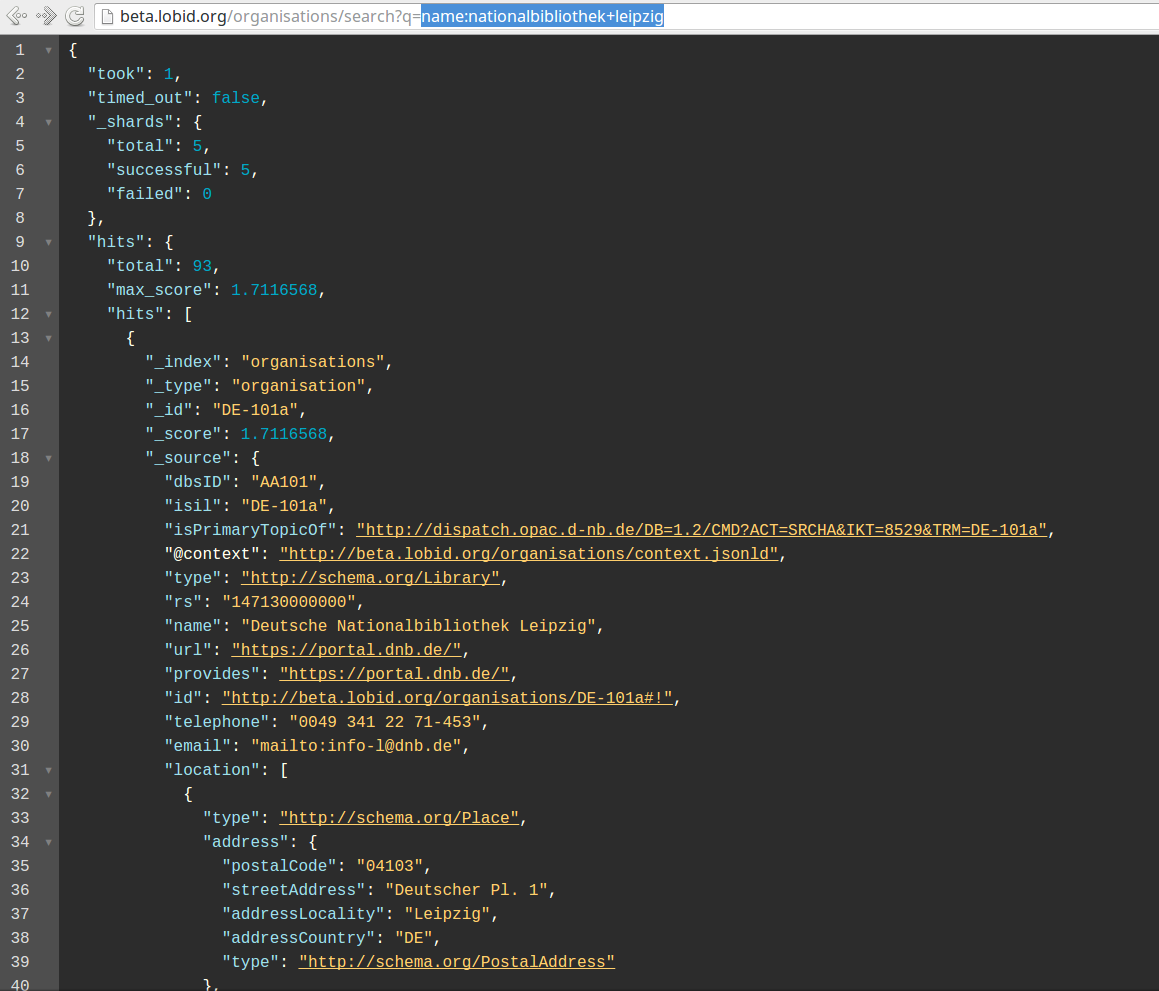
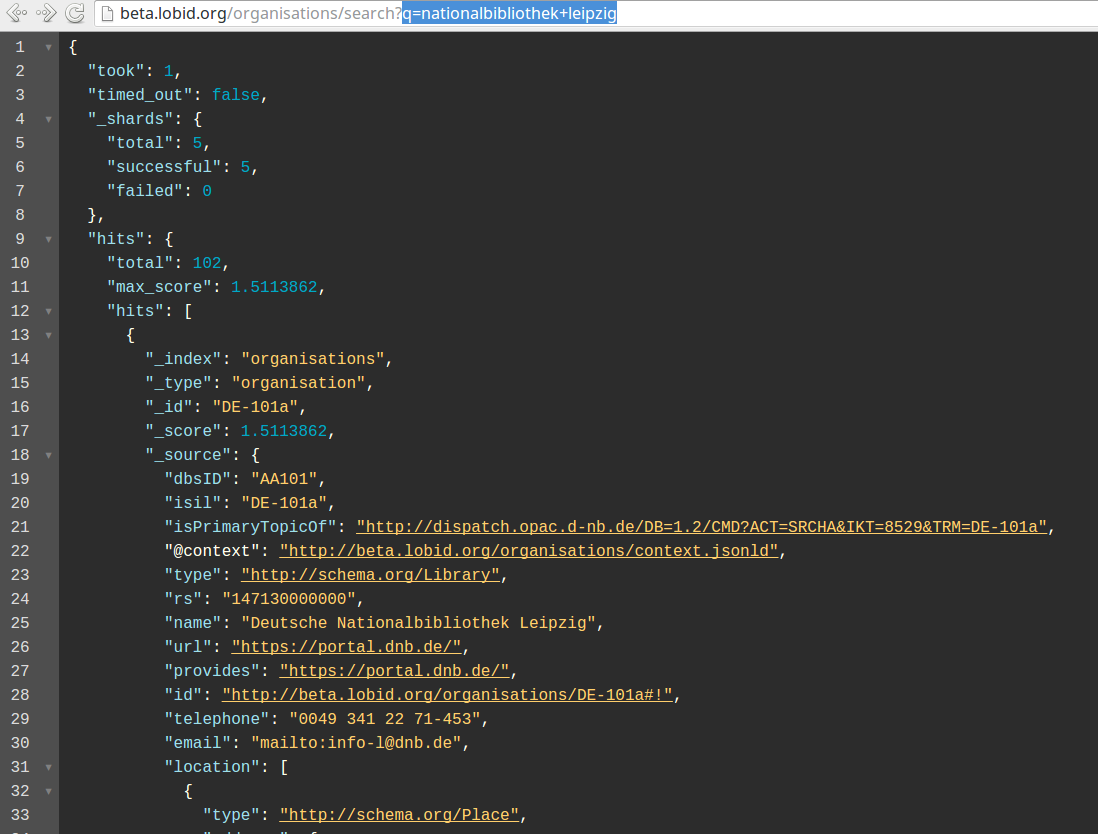
Erste Demo verbessert.

Changed region(s): [[0.0, 0.0, 1.0, 1.0]]

diff --git a/bibcast16/index.html b/bibcast16/index.html
@@ -97,7 +97,7 @@
 			</section>
 
 			<section>
-						<h2>Konkretere Frage</h2>
+						<h2>Konkretere Fragen:</h2>
 						<span class="fragment"><h3>Wer hat schon lobid-Organisationsdaten genutzt?</h3></span>
 						<span class="fragment"><h3>lobid-Titeldaten?</h3></span>
 						<span class="fragment"><h3>lobid-Normdaten?</h3></span>
@@ -169,7 +169,7 @@
 		<section>			
 			<section data-transition="slide">
 				<h1>
-					<a href="http://beta.lobid.org/organisations/search?q=name:nationalbibliothek+leipzig"
+					<a href="http://beta.lobid.org/organisations/search?q=nationalbibliothek+leipzig"
 						target="_blank">So funktioniert's</a>
 				</h1>
 				<small>Für Live-Demo: Link oder Screenshot klicken</small>
@@ -178,7 +178,7 @@
 			<section data-background="img/demo1-1.png"
 				data-background-size="contain">
 				<a target="_blank" title="Switch Live Demo"
-					href="http://beta.lobid.org/organisations/search?q=name:nationalbibliothek+leipzig"><h1>
+					href="http://beta.lobid.org/organisations/search?q=nationalbibliothek+leipzig"><h1>
 						&nbsp;<br />&nbsp;<br />&nbsp;
 					</h1></a>
 			</section>
@@ -186,7 +186,7 @@
 			<section data-background="img/demo1-2.png"
 				data-background-size="contain">
 				<a target="_blank" title="Zur Live-Demo"
-					href="http://beta.lobid.org/organisations/search?q=name:museum+leipzig"><h1>
+					href="http://beta.lobid.org/organisations/search?q=museum+leipzig"><h1>
 						&nbsp;<br />&nbsp;<br />&nbsp;
 					</h1></a>
 			</section>
